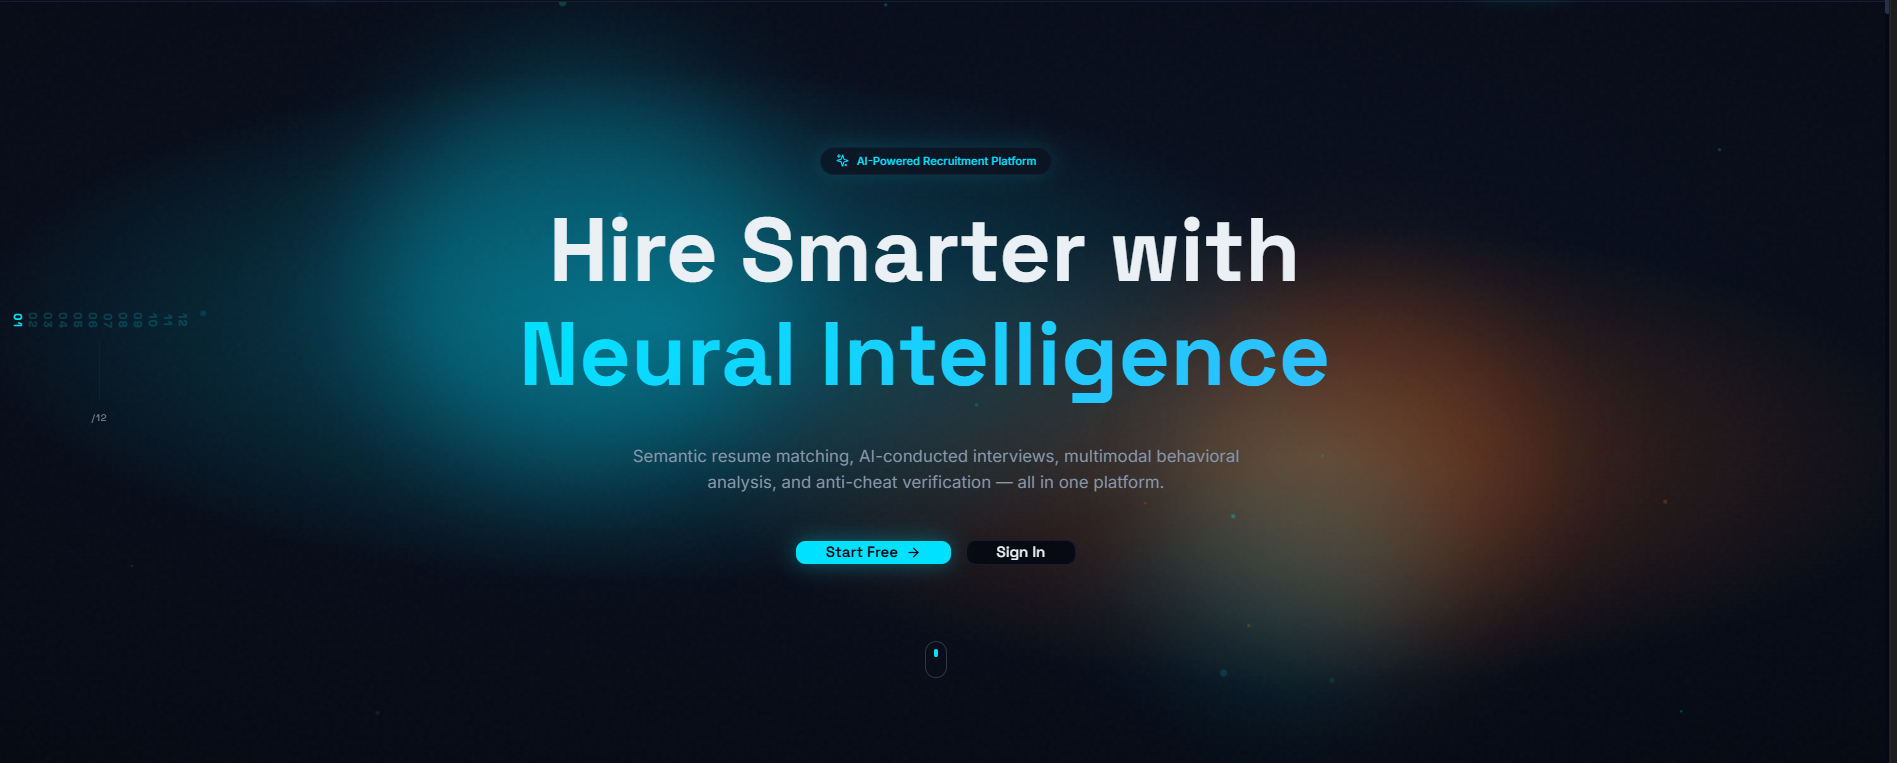
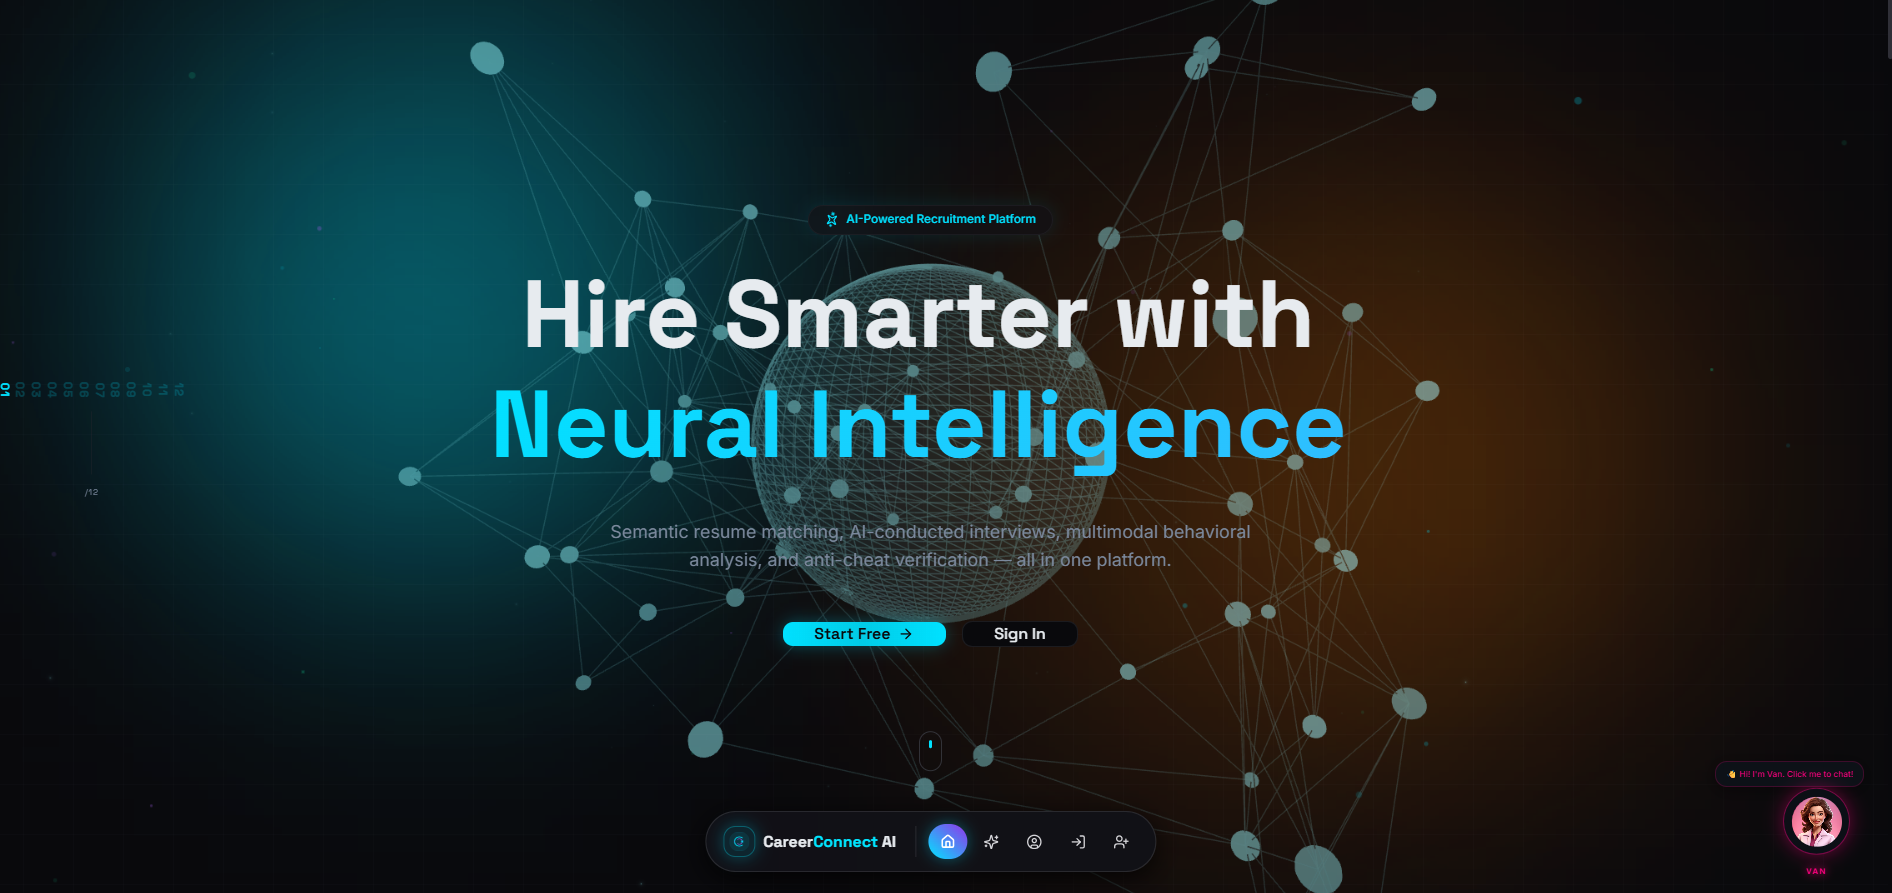
Fixed Landing page

diff --git a/src/components/NeuralNetwork3D.tsx b/src/components/NeuralNetwork3D.tsx
@@ -2,90 +2,81 @@ import { useRef, useMemo } from "react";
 import { Canvas, useFrame } from "@react-three/fiber";
 import { Float, Sparkles } from "@react-three/drei";
 import * as THREE from "three";
-
+ 
 function NeuralNodes() {
   const groupRef = useRef<THREE.Group>(null);
   const linesRef = useRef<THREE.LineSegments>(null);
-
+ 
   const { positions, connections } = useMemo(() => {
     const nodeCount = 60;
     const pos: THREE.Vector3[] = [];
     for (let i = 0; i < nodeCount; i++) {
-      pos.push(
-        new THREE.Vector3(
-          (Math.random() - 0.5) * 8,
-          (Math.random() - 0.5) * 6,
-          (Math.random() - 0.5) * 6
-        )
-      );
+      pos.push(new THREE.Vector3(
+        (Math.random() - 0.5) * 8,
+        (Math.random() - 0.5) * 6,
+        (Math.random() - 0.5) * 6,
+      ));
     }
-
     const conns: number[] = [];
     for (let i = 0; i < nodeCount; i++) {
       for (let j = i + 1; j < nodeCount; j++) {
         if (pos[i].distanceTo(pos[j]) < 2.5) {
-          conns.push(
-            pos[i].x, pos[i].y, pos[i].z,
-            pos[j].x, pos[j].y, pos[j].z
-          );
+          conns.push(pos[i].x, pos[i].y, pos[i].z, pos[j].x, pos[j].y, pos[j].z);
         }
       }
     }
-
     return { positions: pos, connections: new Float32Array(conns) };
   }, []);
-
+ 
   useFrame((state) => {
     if (groupRef.current) {
       groupRef.current.rotation.y = state.clock.elapsedTime * 0.05;
       groupRef.current.rotation.x = Math.sin(state.clock.elapsedTime * 0.03) * 0.1;
     }
   });
-
+ 
   const lineGeometry = useMemo(() => {
     const geo = new THREE.BufferGeometry();
     geo.setAttribute("position", new THREE.BufferAttribute(connections, 3));
     return geo;
   }, [connections]);
-
+ 
   return (
     <group ref={groupRef}>
       {positions.map((pos, i) => (
         <mesh key={i} position={pos}>
-          <sphereGeometry args={[0.04 + Math.random() * 0.03, 16, 16]} />
-          <meshBasicMaterial color="#00e5ff" transparent opacity={0.6 + Math.random() * 0.4} />
+          <sphereGeometry args={[0.06 + Math.random() * 0.04, 16, 16]} />
+          <meshBasicMaterial color="#00e5ff" transparent opacity={0.8 + Math.random() * 0.2} />
         </mesh>
       ))}
       <lineSegments ref={linesRef} geometry={lineGeometry}>
-        <lineBasicMaterial color="#00e5ff" transparent opacity={0.12} />
+        <lineBasicMaterial color="#00e5ff" transparent opacity={0.3} />
       </lineSegments>
     </group>
   );
 }
-
+ 
 function GlowingSphere() {
   const meshRef = useRef<THREE.Mesh>(null);
-
   useFrame((state) => {
     if (meshRef.current) {
       meshRef.current.scale.setScalar(1 + Math.sin(state.clock.elapsedTime * 0.5) * 0.05);
     }
   });
-
   return (
     <Float speed={1.5} rotationIntensity={0.2} floatIntensity={0.5}>
       <mesh ref={meshRef}>
-        <sphereGeometry args={[1.2, 64, 64]} />
-        <meshBasicMaterial color="#00e5ff" transparent opacity={0.03} />
+        <sphereGeometry args={[1.5, 64, 64]} />
+        <meshBasicMaterial color="#00e5ff" transparent opacity={0.15} />
       </mesh>
       <mesh>
-        <sphereGeometry args={[1.25, 64, 64]} />
-        <meshBasicMaterial color="#00e5ff" wireframe transparent opacity={0.06} />
+        <sphereGeometry args={[1.55, 64, 64]} />
+        <meshBasicMaterial color="#00e5ff" wireframe transparent opacity={0.25} />
       </mesh>
     </Float>
   );
 }
-
+ 
 export default function NeuralNetwork3D() {
   return (
     <div className="absolute inset-0 opacity-70">

diff --git a/src/pages/Index.tsx b/src/pages/Index.tsx
@@ -22,7 +22,9 @@ import ShareReport from "@/components/landing/ShareReport";
 import FloatingParticles from "@/components/landing/FloatingParticles";
 import AnimatedCounter from "@/components/landing/AnimatedCounter";
 import { motion } from "framer-motion";
-import { useEffect } from "react";
+import { useEffect, Suspense, lazy } from "react";
+
+const NeuralNetwork3D = lazy(() => import("@/components/NeuralNetwork3D"));
 
 const features = [
   { icon: FileSearch, title: "Semantic Resume Matching", desc: "Doc2Vec embeddings + cosine similarity for meaning-based matching, not keyword filtering." },
@@ -50,9 +52,37 @@ const steps = [
 export default function Index() {
   useEffect(() => { window.scrollTo(0, 0); }, []);
   return (
-    <div className="min-h-screen bg-background overflow-x-hidden">
-      <Navbar />
-      <SectionCounter total={12} />
+    <div className="min-h-screen bg-background overflow-x-hidden relative">
+      {/* GLOBAL FIXED BACKGROUND LAYER */}
+      <div className="fixed inset-0 z-0 overflow-hidden pointer-events-none">
+        <div className="absolute inset-0 bg-grid opacity-40" />
+        {/* Enhanced Aurora Orbs for Lovable Design */}
+        <div className="absolute top-1/4 left-1/4 -translate-x-1/2 -translate-y-1/2 w-[800px] h-[800px] rounded-full bg-primary/20 blur-[180px] mix-blend-screen pointer-events-none" />
+        <div className="absolute bottom-1/4 right-1/4 translate-x-1/4 translate-y-1/4 w-[800px] h-[800px] rounded-full bg-[#ff7b00]/15 blur-[180px] mix-blend-screen pointer-events-none" />
+
+        {/* Animated gradient orbs */}
+        <motion.div
+          className="absolute top-[20%] left-[10%] w-[500px] h-[500px] rounded-full bg-primary/30 blur-[150px] mix-blend-screen pointer-events-none"
+          animate={{ x: [0, 50, -30, 0], y: [0, -40, 30, 0], scale: [1, 1.2, 0.9, 1] }}
+          transition={{ duration: 15, repeat: Infinity, ease: "easeInOut" }}
+        />
+        <motion.div
+          className="absolute bottom-[20%] right-[10%] w-[600px] h-[600px] rounded-full bg-[#ff7b00]/20 blur-[180px] mix-blend-screen pointer-events-none"
+          animate={{ x: [0, -60, 40, 0], y: [0, 50, -30, 0], scale: [1, 0.8, 1.1, 1] }}
+          transition={{ duration: 18, repeat: Infinity, ease: "easeInOut" }}
+        />
+
+        {/* 3D neural network overlay */}
+        <div className="absolute inset-0 mix-blend-screen opacity-80 pointer-events-none">
+          <Suspense fallback={null}>
+            <NeuralNetwork3D />
+          </Suspense>
+        </div>
+      </div>
+
+      <div className="relative z-10">
+        <Navbar />
+        <SectionCounter total={12} />
 
       {/* 01 — Hero */}
       <HeroSection />
@@ -343,6 +373,7 @@ export default function Index() {
       </section>
 
       <Footer />
+      </div>
     </div>
   );
 }

diff --git a/src/components/landing/HeroSection.tsx b/src/components/landing/HeroSection.tsx
@@ -22,26 +22,7 @@ export default function HeroSection() {
 
   return (
     <section ref={heroRef} className="relative min-h-[110vh] flex items-center justify-center overflow-hidden">
-      <div className="absolute inset-0 bg-grid opacity-40" />
-      <div className="absolute top-1/4 left-1/2 -translate-x-1/2 -translate-y-1/2 w-[700px] h-[700px] rounded-full bg-primary/5 blur-[150px]" />
-
-      {/* Animated gradient orbs */}
-      <motion.div
-        className="absolute top-[20%] left-[15%] w-[300px] h-[300px] rounded-full bg-accent/10 blur-[120px]"
-        animate={{ x: [0, 40, -20, 0], y: [0, -30, 20, 0], scale: [1, 1.2, 0.9, 1] }}
-        transition={{ duration: 15, repeat: Infinity, ease: "easeInOut" }}
-      />
-      <motion.div
-        className="absolute bottom-[20%] right-[10%] w-[400px] h-[400px] rounded-full bg-primary/8 blur-[150px]"
-        animate={{ x: [0, -50, 30, 0], y: [0, 40, -20, 0], scale: [1, 0.8, 1.1, 1] }}
-        transition={{ duration: 18, repeat: Infinity, ease: "easeInOut" }}
-      />
-
       <FloatingParticles count={30} color="mixed" />
-
-      <Suspense fallback={null}>
-        <NeuralNetwork3D />
-      </Suspense>
 
       <motion.div
         style={{ y: heroY, opacity: heroOpacity, scale: heroScale }}
